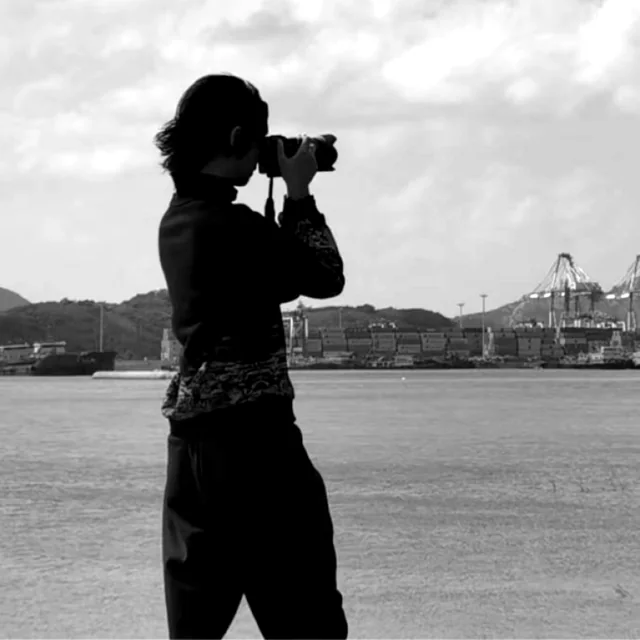
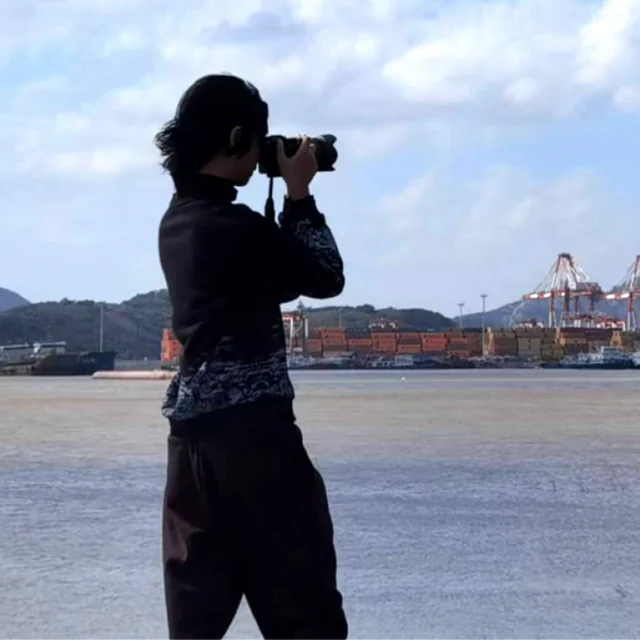
fix: colour portraits, one name per person, and a larger small-type scale
Portraits go back to colour — a monochrome roster reads as a memorial wall in
Chinese culture, which is the opposite of what a team page is for. Exposure is
still normalised so seven photographs shot in seven rooms sit together, but
nothing is recoloured.

Everyone is called by one name: Eric Yan and Alex Zhu, in the roster and in
their own biographies.

Signage was set at 11-12px across the tab rail, the floor rail, plate captions
and the directory notes, which is below what a reader should have to work at.
Every small step moves up: .sign 12->13.1px, tabs 11.2->13.4px, floor marks
11.2->13.8px, actions 12.2->13.1px, captions 11.5->12.8px, directory notes
14->15.2px, prose-small 15->16px. Tracking eases slightly to hold the same
colour on the page, and the tab rail still fits at 1280.

diff --git a/src/content/en.ts b/src/content/en.ts
@@ -482,13 +482,13 @@ export const en: SiteCopy = {
       {
         name: 'Alex Zhu',
         role: 'Managing Director of Strategic Finance',
-        bio: 'Alex Yuxuan Zhu is an emerging leader in economics, finance, and social entrepreneurship. He has taken top honours in the International Economics Olympiad and the National Economics Challenge, and has practical experience in budgeting, financial oversight, project management, and business presentation. He has taken part in selective entrepreneurship programmes including LaunchX and Leadership in the Business World. He will study business and analytics at Carnegie Mellon University’s Tepper School of Business while gaining investment experience with the China-based evergreen fund Become Capital. At ACC-U30 he supports strategic financial planning and helps build sustainable, mission-driven programmes.',
+        bio: 'Alex Zhu is an emerging leader in economics, finance, and social entrepreneurship. He has taken top honours in the International Economics Olympiad and the National Economics Challenge, and has practical experience in budgeting, financial oversight, project management, and business presentation. He has taken part in selective entrepreneurship programmes including LaunchX and Leadership in the Business World. He will study business and analytics at Carnegie Mellon University’s Tepper School of Business while gaining investment experience with the China-based evergreen fund Become Capital. At ACC-U30 he supports strategic financial planning and helps build sustainable, mission-driven programmes.',
         portrait: alexZhu,
       },
       {
-        name: 'Liqian “Eric” Yan',
+        name: 'Eric Yan',
         role: 'Secretary-General',
-        bio: 'Liqian “Eric” Yan is a researcher, social entrepreneur, and community leader whose work spans natural language processing, computational economics, and the changing role of artificial intelligence in the labour market. He has led research on language-model accessibility and contributed to an international study analysing more than 100 million job postings across 72 countries. His work has been recognised by the Regeneron ISEF and the Yau Science Awards. He also co-founded the student nonprofit LinkScape, where he oversees finance, partnerships, and programme operations. As Secretary-General he brings experience in collaboration, budgeting, public communication, and youth-led service.',
+        bio: 'Eric Yan is a researcher, social entrepreneur, and community leader whose work spans natural language processing, computational economics, and the changing role of artificial intelligence in the labour market. He has led research on language-model accessibility and contributed to an international study analysing more than 100 million job postings across 72 countries. His work has been recognised by the Regeneron ISEF and the Yau Science Awards. He also co-founded the student nonprofit LinkScape, where he oversees finance, partnerships, and programme operations. As Secretary-General he brings experience in collaboration, budgeting, public communication, and youth-led service.',
         portrait: ericYan,
       },
     ],

diff --git a/src/index.css b/src/index.css
@@ -179,8 +179,8 @@
     font-family: var(--font-sign);
     text-transform: uppercase;
     font-variation-settings: 'wdth' 74;
-    letter-spacing: 0.12em;
-    font-size: 0.75rem;
+    letter-spacing: 0.11em;
+    font-size: 0.82rem;
     font-weight: 600;
     line-height: 1.35;
   }
@@ -189,7 +189,7 @@
      the reading face, at a size a 60-year-old can read. */
   .prose-small {
     font-family: var(--font-prose);
-    font-size: 0.94rem;
+    font-size: 1rem;
     line-height: 1.55;
     max-width: 64ch;
   }
@@ -267,7 +267,7 @@
   }
   .dir-sub {
     font-family: var(--font-prose);
-    font-size: 0.88rem;
+    font-size: 0.95rem;
     color: var(--color-on-board-2);
   }
   .dir-floor {
@@ -275,7 +275,7 @@
     font-variation-settings: 'wdth' 70;
     font-weight: 500;
     font-variant-numeric: tabular-nums;
-    font-size: 0.92rem;
+    font-size: 0.98rem;
     text-align: right;
   }
 
@@ -286,7 +286,7 @@
       grid-template-areas: 'name note floor';
     }
     .dir-sub {
-      font-size: 0.84rem;
+      font-size: 0.92rem;
       text-align: right;
     }
     .dir-row > .dir-floor { align-self: baseline; }
@@ -295,8 +295,8 @@
   .dir-row.tenant .dir-name {
     font-weight: 400;
     padding-left: 1.5rem;
-    letter-spacing: 0.09em;
-    font-size: 0.86rem;
+    letter-spacing: 0.08em;
+    font-size: 0.94rem;
     color: var(--color-on-board-2);
     position: relative;
   }
@@ -319,10 +319,10 @@
     font-family: var(--font-sign);
     font-variation-settings: 'wdth' 78;
     text-transform: uppercase;
-    letter-spacing: 0.12em;
-    font-size: 0.76rem;
+    letter-spacing: 0.11em;
+    font-size: 0.82rem;
     font-weight: 600;
-    padding: 0.9rem 1.5rem;
+    padding: 0.95rem 1.6rem;
     background: var(--color-vermillion);
     color: #fff;
     border: 0;
@@ -379,8 +379,8 @@
     font-family: var(--font-sign);
     font-variation-settings: 'wdth' 72;
     text-transform: uppercase;
-    letter-spacing: 0.11em;
-    font-size: 0.72rem;
+    letter-spacing: 0.1em;
+    font-size: 0.8rem;
     color: var(--color-ink-2);
     padding-top: 0.6rem;
     display: flex;
@@ -398,8 +398,8 @@
     font-family: var(--font-sign);
     font-variation-settings: 'wdth' 74;
     text-transform: uppercase;
-    letter-spacing: 0.1em;
-    font-size: 0.7rem;
+    letter-spacing: 0.09em;
+    font-size: 0.84rem;
     font-weight: 600;
     color: var(--color-on-board-2);
     text-decoration: none;
@@ -421,8 +421,8 @@
   }
   .tab-floor {
     font-variant-numeric: tabular-nums;
-    font-size: 0.7rem;
-    opacity: 0.75;
+    font-size: 0.8rem;
+    opacity: 0.8;
   }
 
   /* The elevator lantern's floor marks. Same step as .tab-floor; colour and
@@ -431,11 +431,11 @@
     font-family: var(--font-sign);
     font-variation-settings: 'wdth' 70;
     font-variant-numeric: tabular-nums;
-    font-size: 0.7rem;
+    font-size: 0.86rem;
     font-weight: 600;
     letter-spacing: 0.06em;
     text-align: center;
-    padding: 0.2rem 0.3rem;
+    padding: 0.3rem 0.45rem;
     transition: color 150ms ease-out;
   }
 

diff --git a/src/pages/Home.tsx b/src/pages/Home.tsx
@@ -19,7 +19,7 @@ export default function Home() {
         />
 
         <div className="wrap relative flex flex-wrap items-start justify-between gap-4">
-          <p className="sign-lg text-[0.8rem] leading-snug sm:text-[0.92rem]">
+          <p className="sign-lg text-[0.92rem] leading-snug sm:text-[1.02rem]">
             Asian Community Center
             <br />
             Under 30
@@ -68,7 +68,7 @@ export default function Home() {
                   <span className="dir-floor text-left text-ink-3 transition-colors group-hover:text-vermillion-ink">
                     {cell.floor}
                   </span>
-                  <span className="sign-lg text-[0.86rem] text-ink">{cell.label}</span>
+                  <span className="sign-lg text-[0.95rem] text-ink">{cell.label}</span>
                   <span className="prose-small text-ink-2">{cell.detail}</span>
                 </Link>
               </li>
